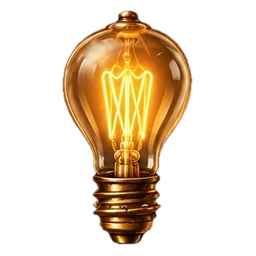
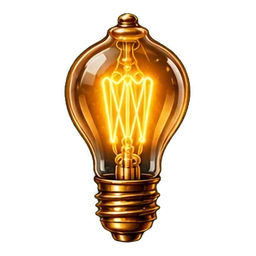
Iconos rehechos sin defectos: 23 imágenes nuevas de logros, familias, categorías e interfaz (v205)
Recluta Mental, Primer Riesgo, Mente Fracturada, Cleaner, Lucidez Absoluta, Dominio, Modos de juego, 15 Fragmentos, diamante, candados, calavera, cartel de peligro, bombilla, reloj de arena, cultura, Amigos, copa, relojes, taza, guante «casi» y brújula.

Claude-Session: https://claude.ai/code/session_01Bat5Ai6AcLXwkKvVqjKGod

Changed region(s): [[0.2188, 0.0312, 0.75, 0.9688]]

diff --git a/index.html b/index.html
@@ -52,15 +52,15 @@
 <link rel="preconnect" href="https://fonts.googleapis.com">
 <link rel="preconnect" href="https://fonts.gstatic.com" crossorigin>
 <link href="https://fonts.googleapis.com/css2?family=Playfair+Display:wght@600;700;800&family=Inter:wght@400;500;600;700;800;900&display=swap" rel="stylesheet">
-<link rel="stylesheet" href="styles/main.css?v=204">
+<link rel="stylesheet" href="styles/main.css?v=205">
 <!-- v1.4: estilos de la capa online (cuenta, migración, ranking). Solo clases .seq-* -->
-<link rel="stylesheet" href="styles/online.css?v=204">
-<link rel="stylesheet" href="styles/results-frame.css?v=204">
-<link rel="stylesheet" href="styles/visual-2-3.css?v=204">
-<link rel="stylesheet" href="styles/encargos.css?v=204">
-<link rel="stylesheet" href="styles/encargos-intro.css?v=204">
-<link rel="stylesheet" href="styles/sir-events.css?v=204">
-<link rel="stylesheet" href="styles/theme.css?v=204">
+<link rel="stylesheet" href="styles/online.css?v=205">
+<link rel="stylesheet" href="styles/results-frame.css?v=205">
+<link rel="stylesheet" href="styles/visual-2-3.css?v=205">
+<link rel="stylesheet" href="styles/encargos.css?v=205">
+<link rel="stylesheet" href="styles/encargos-intro.css?v=205">
+<link rel="stylesheet" href="styles/sir-events.css?v=205">
+<link rel="stylesheet" href="styles/theme.css?v=205">
 
 </head>
 <body class="on-home">
@@ -1114,54 +1114,54 @@ try {
 <!-- Fase 2: datos y constantes extraidos a modulos, cargados como scripts
      clasicos (no ES Modules) para conservar el scope global compartido con
      el script principal, sin convertir todavia la app a ES Modules. -->
-<script src="src/data/ui-maps.js?v=204"></script>
-<script src="src/data/questions.js?v=204"></script>
-<script src="src/data/questions-retired.js?v=204"></script>
-<script src="src/data/phrases.js?v=204"></script>
-<script src="src/data/duel-phrases.js?v=204"></script>
-<script src="src/data/lucidez.js?v=204"></script>
-<script src="src/data/medals.js?v=204"></script>
+<script src="src/data/ui-maps.js?v=205"></script>
+<script src="src/data/questions.js?v=205"></script>
+<script src="src/data/questions-retired.js?v=205"></script>
+<script src="src/data/phrases.js?v=205"></script>
+<script src="src/data/duel-phrases.js?v=205"></script>
+<script src="src/data/lucidez.js?v=205"></script>
+<script src="src/data/medals.js?v=205"></script>
 <!-- Prompt 3 — Fase C: sistema de avatares compartido (window.SEQAvatars). Debe
      cargarse antes de src/online/online.js y src/online/duels.js: ambos lo
      consumen en vez de mantener cada uno su propia copia de la lista. -->
-<script src="src/data/avatars.js?v=204"></script>
-<script src="src/share/share-card.js?v=204"></script>
+<script src="src/data/avatars.js?v=205"></script>
+<script src="src/share/share-card.js?v=205"></script>
 
 <!-- Fase 3 (Lote 3A): motor de coincidencia de respuestas extraido a
      src/utils/matching.js, mismo criterio que la Fase 2 (script clasico,
      sin ES Modules todavia). -->
-<script src="src/utils/matching.js?v=204"></script>
-<script src="src/utils/answer-alias.js?v=204"></script>
-<script src="src/utils/lucidez-select.js?v=204"></script>
-<script src="src/state/lucidez-bag.js?v=204"></script>
-<script src="src/utils/encargos-core.js?v=204"></script>
-<script src="src/utils/encargos-progress.js?v=204"></script>
-<script src="src/state/encargos.js?v=204"></script>
-<script src="src/data/encargos-phrases.js?v=204"></script>
-<script src="src/ui/encargos-ui.js?v=204"></script>
-<script src="src/data/named-phrases.js?v=204"></script>
-<script src="src/utils/named-phrases.js?v=204"></script>
-<script src="src/utils/encargos-intro-core.js?v=204"></script>
-<script src="src/data/encargos-intro-phrases.js?v=204"></script>
-<script src="src/ui/encargos-intro.js?v=204"></script>
-<script src="src/data/home-quotes.js?v=204"></script>
-<script src="src/ui/home-quote.js?v=204"></script>
-<script src="src/utils/sir-events.js?v=204"></script>
-<script src="src/ui/sir-events-ui.js?v=204"></script>
-<script src="src/state/sir-events.js?v=204"></script>
-<script src="src/utils/sudden-progression.js?v=204"></script>
-<script src="src/utils/fresh-first.js?v=204"></script>
-<script src="src/utils/mental-calc.js?v=204"></script>
-<script src="src/utils/mental-classic.js?v=204"></script>
-<script src="src/ui/mental-classic-ui.js?v=204"></script>
-<script src="src/ui/level-up.js?v=204"></script>
+<script src="src/utils/matching.js?v=205"></script>
+<script src="src/utils/answer-alias.js?v=205"></script>
+<script src="src/utils/lucidez-select.js?v=205"></script>
+<script src="src/state/lucidez-bag.js?v=205"></script>
+<script src="src/utils/encargos-core.js?v=205"></script>
+<script src="src/utils/encargos-progress.js?v=205"></script>
+<script src="src/state/encargos.js?v=205"></script>
+<script src="src/data/encargos-phrases.js?v=205"></script>
+<script src="src/ui/encargos-ui.js?v=205"></script>
+<script src="src/data/named-phrases.js?v=205"></script>
+<script src="src/utils/named-phrases.js?v=205"></script>
+<script src="src/utils/encargos-intro-core.js?v=205"></script>
+<script src="src/data/encargos-intro-phrases.js?v=205"></script>
+<script src="src/ui/encargos-intro.js?v=205"></script>
+<script src="src/data/home-quotes.js?v=205"></script>
+<script src="src/ui/home-quote.js?v=205"></script>
+<script src="src/utils/sir-events.js?v=205"></script>
+<script src="src/ui/sir-events-ui.js?v=205"></script>
+<script src="src/state/sir-events.js?v=205"></script>
+<script src="src/utils/sudden-progression.js?v=205"></script>
+<script src="src/utils/fresh-first.js?v=205"></script>
+<script src="src/utils/mental-calc.js?v=205"></script>
+<script src="src/utils/mental-classic.js?v=205"></script>
+<script src="src/ui/mental-classic-ui.js?v=205"></script>
+<script src="src/ui/level-up.js?v=205"></script>
 
 <!-- Fase 3 (Lote 3B): nucleo algoritmico de Duelo extraido a
      src/utils/duel.js, mismo criterio que el resto (script clasico, sin
      ES Modules todavia). Las dependencias compartidas con otros modos
      (arrangeStandardBlock, generateLucidezMentalOp)
      permanecen en este script principal, sin moverse en este lote. -->
-<script src="src/utils/duel.js?v=204"></script>
+<script src="src/utils/duel.js?v=205"></script>
 
 <!-- Fase 3 (Lote 3C): defaults, migracion y saneamiento del Store
      extraidos a src/utils/store.js, mismo criterio que el resto (script
@@ -1173,50 +1173,50 @@ try {
      getLevelData) y las 8 funciones de persistencia real (loadStore,
      saveStore, exportProgress...) permanecen en este script principal,
      sin moverse en este lote. -->
-<script src="src/utils/store.js?v=204"></script>
+<script src="src/utils/store.js?v=205"></script>
 
 <!-- Fase 4B: fachada de estado de solo lectura (getStore/getCurrentGame),
      mismo criterio que el resto (script clasico, sin ES Modules todavia).
      No copia, no transforma, no cachea. Ver src/state/read-facade.js. -->
-<script src="src/state/read-facade.js?v=204"></script>
+<script src="src/state/read-facade.js?v=205"></script>
 
-<script src="src/utils/streak-xp.js?v=204"></script>
+<script src="src/utils/streak-xp.js?v=205"></script>
 <!-- Fase 4C: helpers minimos de escritura (pushCapped, resetStreak) para
      eliminar 2 duplicaciones reales concretas -- no un sistema de
      mutaciones. Ver src/state/write-helpers.js y CHANGELOG_FASE4C.md. -->
-<script src="src/state/write-helpers.js?v=204"></script>
+<script src="src/state/write-helpers.js?v=205"></script>
 
 <!-- v1.4: capa online (cuenta Google, sincronización, migración, ranking).
      config.js es PÚBLICO (URL del Worker + Client ID de Google); si está
      vacío, la capa online queda desactivada y la app es idéntica a la v1.3.
      online.js solo usa el store/funciones del juego en tiempo de ejecución. -->
-<script src="src/ui/install-app.js?v=204"></script>
-<script src="src/ui/a11y.js?v=204"></script>
-<script src="src/ui/back-nav.js?v=204"></script>
-<script src="src/ui/game-fx.js?v=204"></script>
-<script src="src/ui/last-life.js?v=204"></script>
-<script src="src/ui/hitos.js?v=204"></script>
-<script src="src/ui/achievements.js?v=204"></script>
-<script src="src/ui/stats-extra.js?v=204"></script>
-<script src="src/ui/name-prompt.js?v=204"></script>
-<script src="src/ui/intro.js?v=204"></script>
-<script src="src/ui/mode-badges.js?v=204"></script>
-<script src="src/ui/lucidez-ui.js?v=204"></script>
-<script src="src/ui/sabias.js?v=204"></script>
-<script src="src/ui/icons.js?v=204"></script>
-<script src="src/online/config.js?v=204"></script>
+<script src="src/ui/install-app.js?v=205"></script>
+<script src="src/ui/a11y.js?v=205"></script>
+<script src="src/ui/back-nav.js?v=205"></script>
+<script src="src/ui/game-fx.js?v=205"></script>
+<script src="src/ui/last-life.js?v=205"></script>
+<script src="src/ui/hitos.js?v=205"></script>
+<script src="src/ui/achievements.js?v=205"></script>
+<script src="src/ui/stats-extra.js?v=205"></script>
+<script src="src/ui/name-prompt.js?v=205"></script>
+<script src="src/ui/intro.js?v=205"></script>
+<script src="src/ui/mode-badges.js?v=205"></script>
+<script src="src/ui/lucidez-ui.js?v=205"></script>
+<script src="src/ui/sabias.js?v=205"></script>
+<script src="src/ui/icons.js?v=205"></script>
+<script src="src/online/config.js?v=205"></script>
 <!-- v2.0: combinación de datos de jugador (mismo código que el servidor) y su sincronización -->
-<script src="src/utils/sync-merge.js?v=204"></script>
-<script src="src/online/data-sync.js?v=204"></script>
-<script src="src/online/online.js?v=204"></script>
+<script src="src/utils/sync-merge.js?v=205"></script>
+<script src="src/online/data-sync.js?v=205"></script>
+<script src="src/online/online.js?v=205"></script>
 <!-- v1.5: Amigos, Duelo online y Retos. El servidor decide preguntas, tiempo, aciertos y ganador. -->
-<script src="src/online/duels.js?v=204"></script>
+<script src="src/online/duels.js?v=205"></script>
 <!-- 2.1: Duelo por apuestas, ELO PvP, Rankings y estadísticas de Duelos (solo presentación; decide el servidor) -->
-<script src="src/online/duels-v21.js?v=204"></script>
-<script src="src/online/inbox.js?v=204"></script>
-<script src="src/online/push.js?v=204"></script>
+<script src="src/online/duels-v21.js?v=205"></script>
+<script src="src/online/inbox.js?v=205"></script>
+<script src="src/online/push.js?v=205"></script>
 <!-- Audio: sonidos del juego (src/audio/audio.js) -->
-<script src="src/audio/audio.js?v=204"></script>
+<script src="src/audio/audio.js?v=205"></script>
 
 <script>
 function closeWelcomeModal() {

diff --git a/sw.js b/sw.js
@@ -38,7 +38,7 @@
 // styles/main.css, src/data/medals.js, src/utils/store.js y src/online/duels.js (ya en el shell).
 // 2.0 (Prompt 5, tarjeta de compartir): subido de 10 a 11; nuevo src/share/share-card.js
 // (añadido al shell) y cambiaron index.html y src/online/duels.js.
-const CACHE_VERSION = 204;
+const CACHE_VERSION = 205;
 // Dos cachés (ver install/fetch más abajo):
 //  · CACHE_NAME  (versionada): index.html, CSS, JS, manifest e iconos. Es poco y es imprescindible: si no se puede guardar, la
 //    versión nueva no se instala y se queda la anterior.
@@ -452,12 +452,12 @@ const ASSET_REVS = {
   './assets/avatars/sello.png': 'cde68711',
   './assets/avatars/sombrero.png': 'f0e31e52',
   './assets/cats/arte.webp': '0d91c36e',
-  './assets/cats/candado-abierto.webp': '48f49126',
-  './assets/cats/candado.webp': '9a5278d3',
+  './assets/cats/candado-abierto.webp': 'b059b37f',
+  './assets/cats/candado.webp': '12d27bf4',
   './assets/cats/ciencia.webp': '48fe4594',
-  './assets/cats/cultura.webp': '1dfeac9c',
+  './assets/cats/cultura.webp': '13fcba51',
   './assets/cats/deporte.webp': '37ef9eeb',
-  './assets/cats/geografia.webp': '45cbed5d',
+  './assets/cats/geografia.webp': '0a32eea5',
   './assets/cats/historia.webp': 'c208d729',
   './assets/character/defeat.webp': 'd4895852',
   './assets/character/event_siredwards_comeback.webp': 'e1b589e8',
@@ -494,24 +494,24 @@ const ASSET_REVS = {
   './assets/duelos/rangos/lord_sabelotodo.webp': '9d4e0dea',
   './assets/duelos/rangos/plebeyo_ilustrado.webp': '9c9aadc0',
   './assets/duelos/rangos/sir_edwards.webp': '05fa85f5',
-  './assets/duelos/rankings/friends.webp': 'e8361cdf',
+  './assets/duelos/rankings/friends.webp': 'd908f9d6',
   './assets/duelos/rankings/global.webp': 'dcfdf98c',
   './assets/duelos/rankings/mental.webp': 'f823292b',
   './assets/duelos/rankings/pvp.webp': '9d9a136b',
   './assets/duelos/rankings/timetrial.webp': '38e11a75',
   './assets/familias/aciertos.webp': '097c4a53',
-  './assets/familias/dominio.webp': '18809814',
+  './assets/familias/dominio.webp': '06c0ebe9',
   './assets/familias/duelo.webp': '08a7a9bc',
   './assets/familias/errores.webp': '287dd125',
   './assets/familias/especial.webp': '330dfe9a',
-  './assets/familias/modos.webp': '46502260',
+  './assets/familias/modos.webp': '9e8c2a1b',
   './assets/familias/nivel.webp': 'e3f69050',
   './assets/familias/prog.webp': '63da724b',
   './assets/familias/racha.webp': '935e4201',
   './assets/familias/secretos.webp': '71d42b2c',
   './assets/logros/all_medals_secret.webp': 'e1705874',
   './assets/logros/balanced_master.webp': 'b30a2fa7',
-  './assets/logros/cleaner_25.webp': '7adb245a',
+  './assets/logros/cleaner_25.webp': '6abf53aa',
   './assets/logros/cleaner_5.webp': 'ad5d3176',
   './assets/logros/correct_100.webp': '7d979750',
   './assets/logros/correct_400.webp': '699c3b3c',
@@ -537,9 +537,9 @@ const ASSET_REVS = {
   './assets/logros/level_10.webp': '776cdabe',
   './assets/logros/level_20.webp': '01d9c08c',
   './assets/logros/level_30.webp': 'c12ead2f',
-  './assets/logros/level_5.webp': '09922fff',
+  './assets/logros/level_5.webp': '91e2a1dd',
   './assets/logros/limpieza_general.webp': 'd9d69359',
-  './assets/logros/lucidez_absoluta.webp': '42c13547',
+  './assets/logros/lucidez_absoluta.webp': '6fe28412',
   './assets/logros/lucidez_conexiones_imposibles.webp': '8539b929',
   './assets/logros/lucidez_mente_despierta.webp': '19d64b82',
   './assets/logros/master_10.webp': '321f8d97',
@@ -552,10 +552,10 @@ const ASSET_REVS = {
   './assets/logros/mental_calc_15.webp': '1a2429bc',
   './assets/logros/mental_calc_30.webp': 'c4971c24',
   './assets/logros/mental_calc_40.webp': '31dfcebd',
-  './assets/logros/mente_fracturada.webp': '5ae5878d',
+  './assets/logros/mente_fracturada.webp': 'b2be2d01',
   './assets/logros/noctambulo.webp': '010d7158',
   './assets/logros/polimata.webp': '9cf89b5e',
-  './assets/logros/sd_primer_riesgo.webp': 'eddff9a5',
+  './assets/logros/sd_primer_riesgo.webp': '28591db4',
   './assets/logros/sharp_eye.webp': '364d44ca',
   './assets/logros/sin_frenos.webp': '8fc08093',
   './assets/logros/sin_preferencias.webp': '49606e4f',
@@ -571,7 +571,7 @@ const ASSET_REVS = {
   './assets/logros/tt_50.webp': '68630d42',
   './assets/modes/ajustes.webp': '04e7acbd',
   './assets/modes/ameba.webp': '9253546d',
-  './assets/modes/amigos.webp': 'e8361cdf',
+  './assets/modes/amigos.webp': 'd908f9d6',
   './assets/modes/calculo-clasico.webp': '2bec7013',
   './assets/modes/calculo.webp': '49d957df',
   './assets/modes/contrarreloj.webp': '77bff741',
@@ -620,24 +620,24 @@ const ASSET_REVS = {
   './assets/ui/bandera-blanca.webp': 'dee45dd5',
   './assets/ui/bien.webp': 'fc543daa',
   './assets/ui/bola-rota.webp': 'a1013b47',
-  './assets/ui/bombilla.webp': '0727d03f',
+  './assets/ui/bombilla.webp': '6a5b987d',
   './assets/ui/bronce.webp': 'dba4350a',
-  './assets/ui/calavera.webp': 'c7a5717c',
+  './assets/ui/calavera.webp': '91078f77',
   './assets/ui/calculadora-humo.webp': 'd056b438',
   './assets/ui/calculadora-laton.webp': '5dfc4d30',
   './assets/ui/caracol.webp': '59071199',
-  './assets/ui/cartel-peligro.webp': '4350f0a8',
-  './assets/ui/casi.webp': 'e9e85d06',
+  './assets/ui/cartel-peligro.webp': 'a2387bfc',
+  './assets/ui/casi.webp': 'f9301bfb',
   './assets/ui/celebracion.webp': '8b133046',
   './assets/ui/cerebro-engranajes.webp': '7e026a43',
   './assets/ui/cerebro.webp': 'd405c40b',
   './assets/ui/cofre-medallas.webp': '3c2e9fad',
   './assets/ui/compartir.webp': '9171bda6',
-  './assets/ui/copa.webp': '3d755af3',
+  './assets/ui/copa.webp': 'b373f220',
   './assets/ui/correcto.webp': '974bb8e4',
   './assets/ui/derrota.webp': '209581d4',
-  './assets/ui/desastre.webp': '467aa5f7',
-  './assets/ui/diamante.webp': '77a83578',
+  './assets/ui/desastre.webp': '8e5ccc49',
+  './assets/ui/diamante.webp': '8ab2f0aa',
   './assets/ui/escenas/carga.webp': '16bc9a4b',
   './assets/ui/escenas/error.webp': '224f56ac',
   './assets/ui/escenas/sin-conexion.webp': '9076a1a8',
@@ -655,7 +655,7 @@ const ASSET_REVS = {
   './assets/ui/gorro-burro.webp': '3c695c11',
   './assets/ui/guante.webp': 'd7253f3d',
   './assets/ui/hito12.webp': '2b04966a',
-  './assets/ui/hito15.webp': 'c1bd5a77',
+  './assets/ui/hito15.webp': '5d54b0c5',
   './assets/ui/incorrecto.webp': 'fd05c912',
   './assets/ui/insignia-nivel.webp': '46fa7480',
   './assets/ui/insignia.webp': '6e91644d',
@@ -670,7 +670,7 @@ const ASSET_REVS = {
   './assets/ui/logros/silueta-secreta.webp': '045b4b95',
   './assets/ui/marca-duelo.webp': '329a4844',
   './assets/ui/medalla.webp': '67b76085',
-  './assets/ui/mediocre.webp': '9eb4cba4',
+  './assets/ui/mediocre.webp': '99595f15',
   './assets/ui/movil.webp': 'cc6ab1aa',
   './assets/ui/nivel/cinta-nivel.webp': 'cbf35898',
   './assets/ui/nivel/confeti.webp': '36473c45',
@@ -689,7 +689,7 @@ const ASSET_REVS = {
   './assets/ui/progreso.webp': '93e94202',
   './assets/ui/racha.webp': '3c061c6c',
   './assets/ui/regla-calculo.webp': '968d898c',
-  './assets/ui/reloj-derretido.webp': '5b91bc04',
+  './assets/ui/reloj-derretido.webp': '671f44b6',
   './assets/ui/revancha.webp': 'c7fc74b3',
   './assets/ui/sombrero-aplastado.webp': 'bd1a6ce9',
   './assets/ui/sombrero-laurel.webp': '1d238ebe',
@@ -722,7 +722,7 @@ const ASSET_REVS = {
   './assets/ui/tarjeta/marco.webp': 'a6871713',
   './assets/ui/tarjeta/sello-record.webp': '5e2ca086',
   './assets/ui/tarjeta/sello.webp': 'bc6c7dd7',
-  './assets/ui/tiempo.webp': 'adf8193b',
+  './assets/ui/tiempo.webp': '47ba95ec',
   './assets/ui/xp.webp': 'dbf27712',
   './assets/ui/zorro.webp': '31ad5246'
 };
